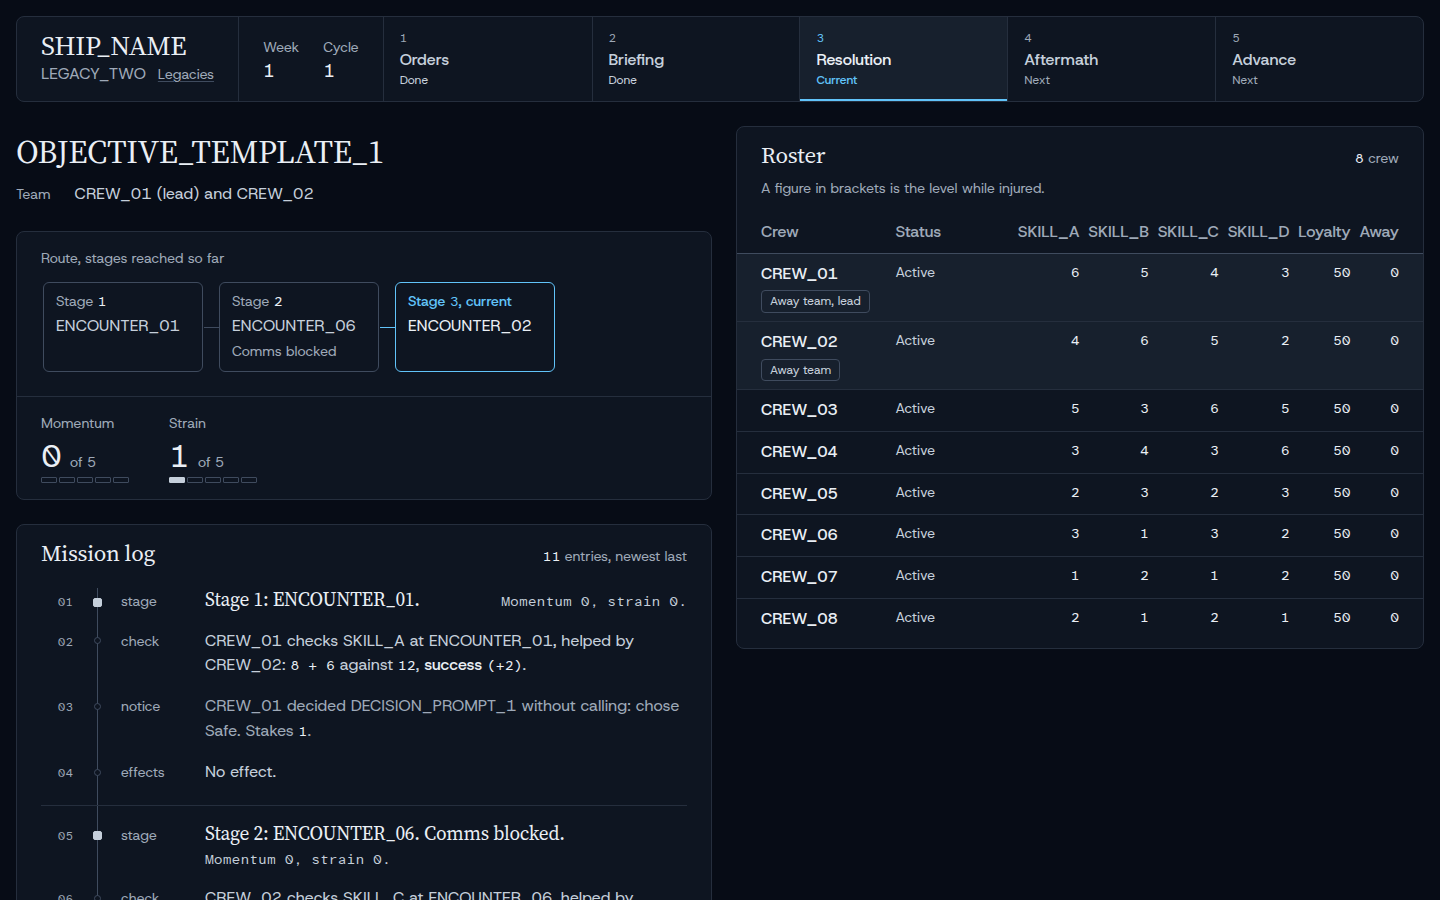
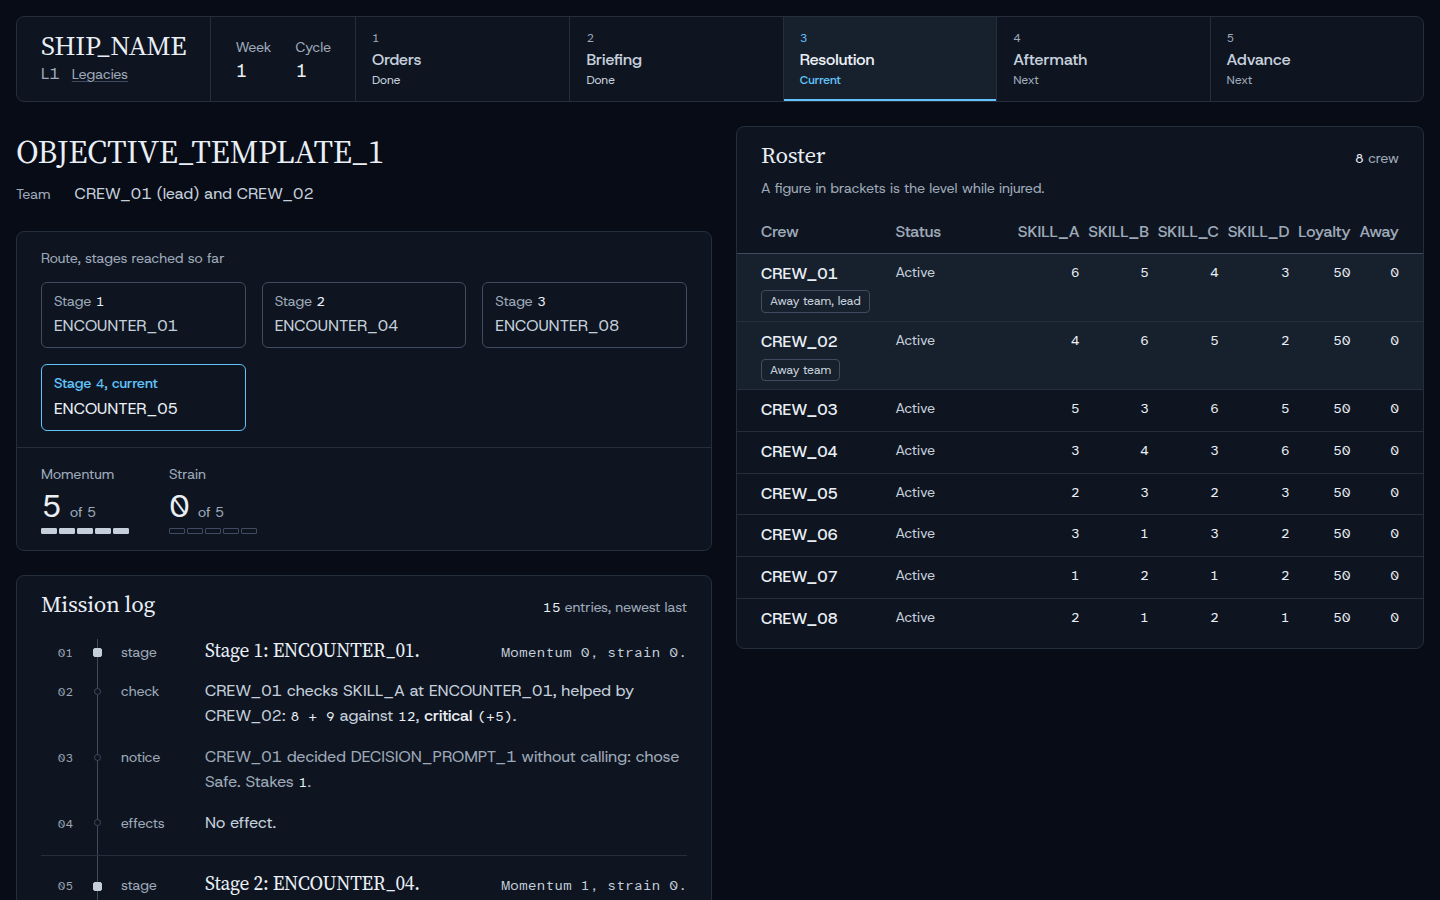
Let the route wrap so no stage is clipped, and test that a failed creation leaves nothing behind

diff --git a/src/Web/wwwroot/css/app.css b/src/Web/wwwroot/css/app.css
@@ -85,23 +85,14 @@ h2 { font-size: var(--text-xl); line-height: 1.12; max-width: 30ch; }
   .course > :not(:empty) ~ :not(:empty) { border-top: 0; border-left: var(--rule-hair) solid var(--color-rule); }
 }
 .course__cap { margin-bottom: var(--space-sm); }
-/* One row that scrolls inside its wrapper. Laid out from the end, so the current (last) stage is the one in view.
- * While stages lie off to the left, a fade in the well's own paper covers the leading edge, so the row reads as one that
- * scrolls and the card cut there is never a hard cut. A row that fits has no fade; where the query is unknown, the scrollbar alone shows it. */
+/* A wrapping grid: the stops flow left to right and wrap, so every card is whole and nothing scrolls. The stage numbers carry the order. */
 #route { min-width: 0; }
-.route-scroll { container-type: scroll-state; display: flex; flex-direction: row-reverse; overflow-x: auto; scrollbar-width: thin; scrollbar-color: var(--color-rule-2) transparent; padding-bottom: var(--space-xs); }
-.route { display: flex; gap: var(--space-md); flex: none; margin-right: auto; padding-left: var(--space-3xs); }
-.route > .stop { flex: 0 0 auto; min-width: 10rem; }
-@container scroll-state(scrollable: left) {
-  .route::before { content: ""; position: sticky; left: 0; z-index: 1; flex: none; width: var(--space-xl); margin-right: calc(-1 * (var(--space-xl) + var(--space-md))); background: linear-gradient(to right, var(--color-paper-2), transparent); }
-}
+.route { display: grid; grid-template-columns: repeat(auto-fill, minmax(10rem, 1fr)); gap: var(--space-md); }
 .stop { position: relative; display: grid; gap: var(--space-3xs); align-content: start; padding: var(--space-xs) var(--space-sm); border: var(--rule-hair) solid var(--color-rule-2); border-radius: var(--radius-inner); min-width: 0; }
-.stop + .stop::before { content: ""; position: absolute; top: 50%; right: 100%; width: var(--space-md); border-top: var(--rule-hair) solid var(--color-rule-2); }
 .stop__no { font-size: var(--text-sm); color: var(--color-muted); }
 .stop__id { color: var(--color-ink-2); white-space: nowrap; }
 .stop__note { font-size: var(--text-sm); color: var(--color-muted); }
 .stop[aria-current="step"] { border-color: var(--color-accent); }
-.stop[aria-current="step"]::before { border-top-color: var(--color-accent); }
 .stop[aria-current="step"] .stop__no { color: var(--color-accent); font-weight: 500; }
 .stop[aria-current="step"] .stop__no .m { color: var(--color-accent); }
 .stop[aria-current="step"] .stop__id { color: var(--color-ink); }
@@ -311,12 +302,9 @@ input:disabled { opacity: 0.55; cursor: not-allowed; }
   h1 { font-size: var(--text-2xl); }
   .verdict h1 { font-size: var(--text-3xl); }
   .call h2 { font-size: var(--text-xl); }
-  .route-scroll { display: block; overflow: visible; container-type: normal; }
-  .route { display: grid; grid-template-columns: minmax(0, 1fr); gap: var(--space-xs); padding-left: 0; }
+  .route { grid-template-columns: minmax(0, 1fr); gap: var(--space-xs); }
   .stop { grid-template-columns: 7.5rem minmax(0, 1fr); align-items: baseline; }
   .stop__note { grid-column: 2; }
-  .stop + .stop::before { top: auto; bottom: 100%; right: auto; left: var(--space-lg); width: 0; height: var(--space-xs); border-top: 0; border-left: var(--rule-hair) solid var(--color-rule-2); }
-  .stop[aria-current="step"]::before { border-left-color: var(--color-accent); }
   .log, .call { --pad: var(--space-md); --no: 1.25rem; --node: 1.25rem; --gap: var(--space-xs); }
   .beat { grid-template-columns: var(--no) var(--node) minmax(0, 1fr); row-gap: 0; }
   .beat__kind { grid-column: 3; grid-row: 1; font-size: var(--text-xs); }

diff --git a/tests/Persistence.Tests/SqliteLegacyStoreTests.cs b/tests/Persistence.Tests/SqliteLegacyStoreTests.cs
@@ -568,6 +568,26 @@ public sealed class SqliteLegacyStoreTests : IDisposable
         Assert.Equal(0, RowCount("event_log"));
     }
 
+    // A null payload passes the upfront checks and fails the NOT NULL column on the second event, after the legacy and module rows are in.
+    [Fact]
+    public void A_failure_inside_the_creation_transaction_rolls_back_every_table_and_the_id_can_be_reused()
+    {
+        Guid id = Guid.NewGuid();
+        SqliteLegacyStore store = NewStore();
+        LegacyRecord record = NewRecord(id);
+        record.State.Module<FuelState>("fuel").Units = 4;
+        record.State.NextSequence = 3;
+
+        Assert.ThrowsAny<Exception>(() => store.Create(record, [new EventEnvelope(1, 1, "A", 1, "{}"), new EventEnvelope(2, 1, "B", 1, null!)]));
+
+        Assert.Equal(0, RowCount("legacy"));
+        Assert.Equal(0, RowCount("module_state"));
+        Assert.Equal(0, RowCount("event_log"));
+        store.Create(record, [new EventEnvelope(1, 1, "A", 1, "{}"), new EventEnvelope(2, 1, "B", 1, "{}")]);
+        Assert.Equal(1, RowCount("legacy"));
+        Assert.Equal(2, RowCount("event_log"));
+    }
+
     [Fact]
     public void A_null_name_is_refused_as_a_bad_name()
     {

diff --git a/tests/Web.Tests/ResolutionTests.cs b/tests/Web.Tests/ResolutionTests.cs
@@ -408,13 +408,13 @@ public sealed class ResolutionTests : IDisposable
     }
 
     [Fact]
-    public async Task The_route_stages_sit_in_one_scrolling_row()
+    public async Task The_route_stages_sit_in_one_ordered_list_with_no_scroll_wrapper()
     {
         (Guid id, _, _) = await LaunchedWithCall();
 
         string page = await Page(id);
 
-        Assert.Matches("<div id=\"route\"><p[^>]*>[^<]*</p><div class=\"route-scroll\"><ol class=\"route\"", page);
+        Assert.Matches("<div id=\"route\"><p[^>]*>[^<]*</p><ol class=\"route\"", page);
     }
 
     [Fact]
@@ -542,7 +542,7 @@ public sealed class ResolutionTests : IDisposable
         Assert.Contains("Result:", page);
         Assert.DoesNotContain("name=\"answer\"", page);
         Assert.Contains("<div id=\"call\"></div>", page);
-        string route = Regex.Match(page, "<div id=\"route\">.*?</ol></div>\\s*</div>", RegexOptions.Singleline).Value;
+        string route = Regex.Match(page, "<div id=\"route\">.*?</ol>\\s*</div>", RegexOptions.Singleline).Value;
         Assert.Contains("class=\"stop\"", route);
         Assert.DoesNotContain("aria-current", route);
         Assert.DoesNotContain("current", route);
